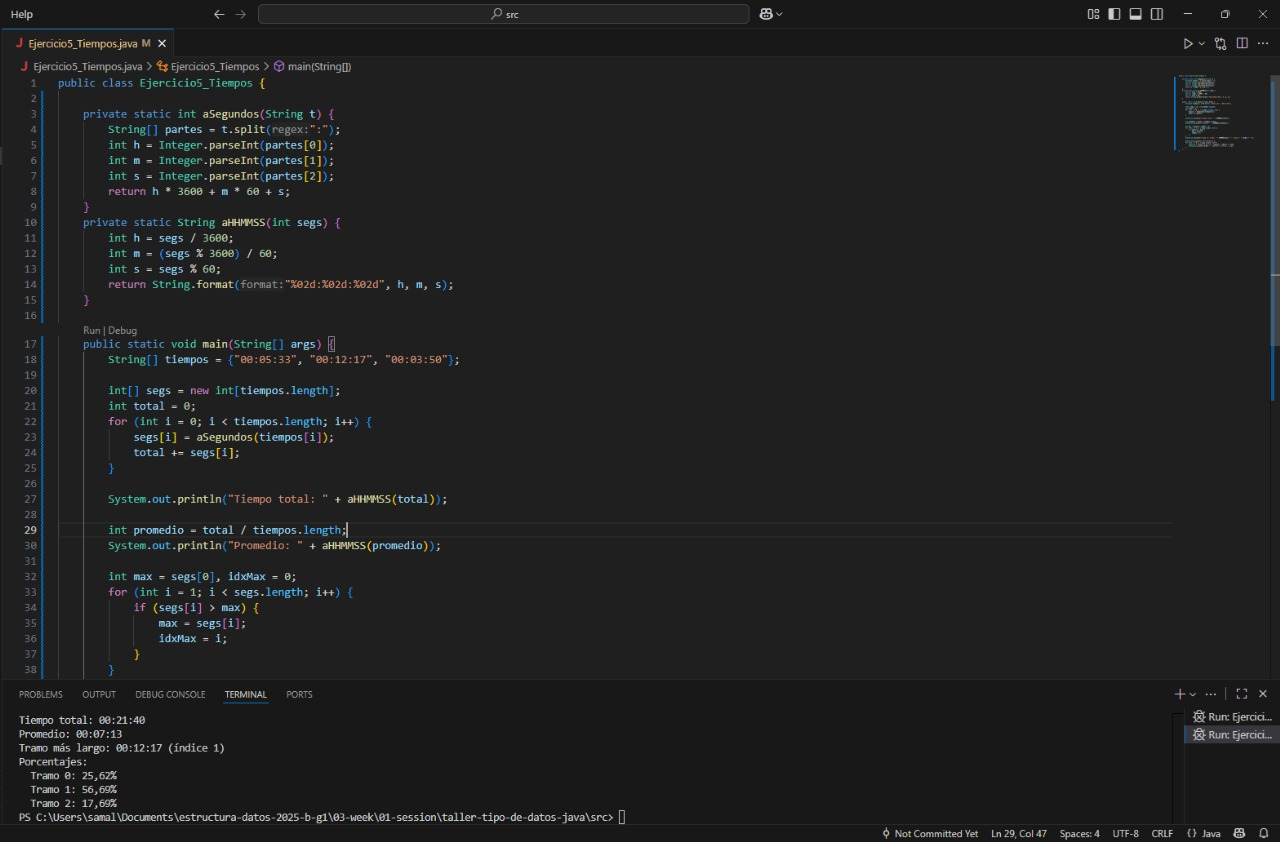
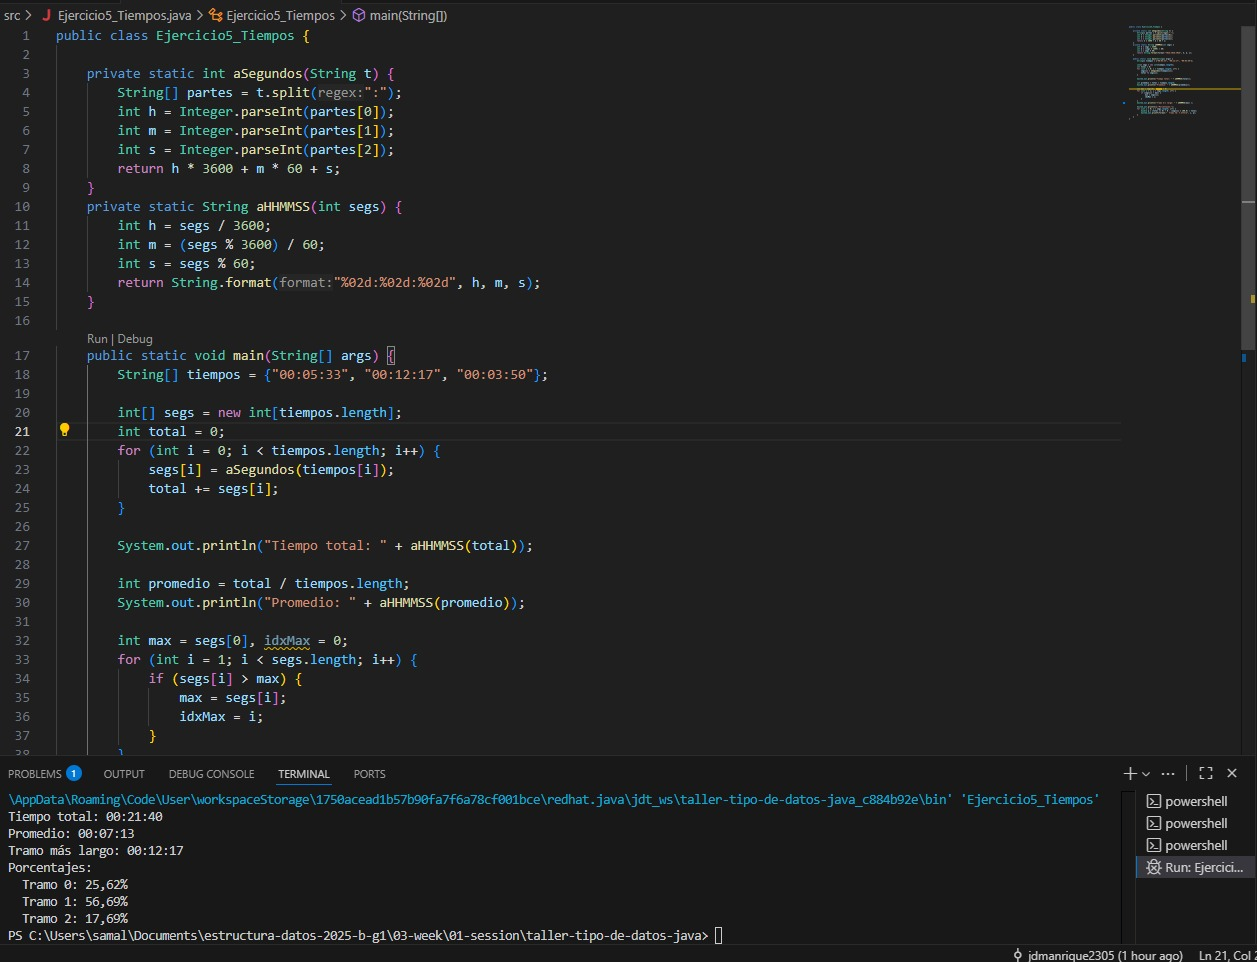
correction Ejercicio5

diff --git a/03-week/01-session/taller-tipo-de-datos-java/src/Ejercicio5_Tiempos.java b/03-week/01-session/taller-tipo-de-datos-java/src/Ejercicio5_Tiempos.java
@@ -36,7 +36,7 @@ public class Ejercicio5_Tiempos {
                 idxMax = i;
             }
         }
-        System.out.println("Tramo más largo: " + aHHMMSS(max) + " (índice " + idxMax + ")");
+        System.out.println("Tramo más largo: " + aHHMMSS(max) );
 
         System.out.println("Porcentajes:");
         for (int i = 0; i < segs.length; i++) {
